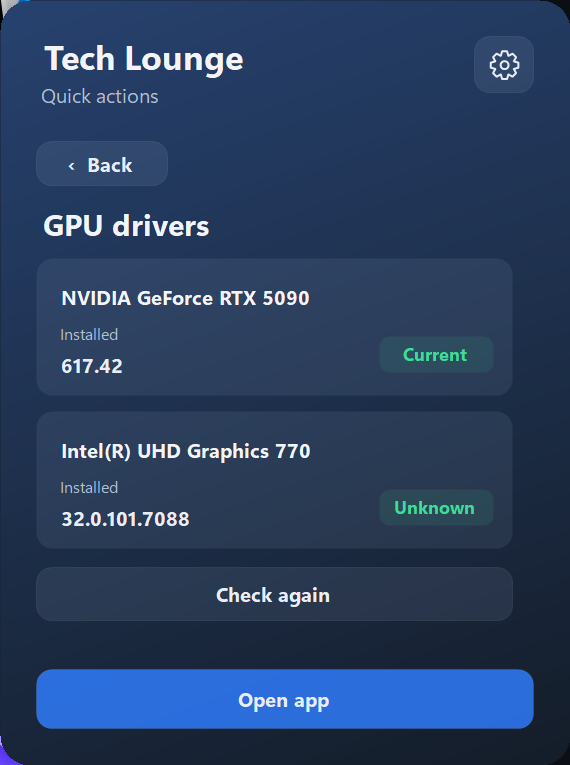
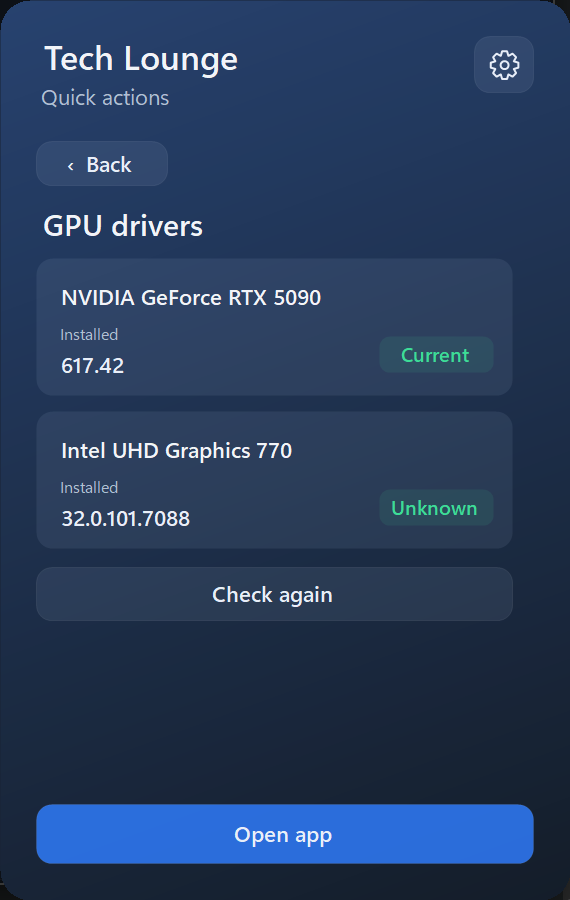
Tech Lounge Tweaks update 2026-10-18
- Revamp tray connection results with four metric cards, drawn icons, large speed/latency values and coloured bufferbloat grades. Label unavailable/zero throughput honestly, retain retry/background navigation, enlarge shared tray typography and use explicit Segoe UI Variable Semibold faces. Preserve fixed footer geometry.

- Keep tray popup height and footer position fixed across all pages. Preserve spring content navigation and opening/closing motion while removing the native height-change path implicated in repeated blue footer drawings. Check geometry throughout complete rapid-navigation transitions.

- Fix the one-frame repeated footer strips visible during animated tray resizing. Disable Win32 saved-client pixel copying for popup resizing and moving footer/page controls; verify final native resize flags alongside pixel and rapid-navigation checks.

Installed edition and native tray companion.

- Keep tray header/footer native controls alive across menu changes. Replace cached child-window composition with complete buffered animation-frame repainting. Verify native footer and page pixels during rapid navigation, hidden-to-visible cleanup, late results and theme changes to catch duplicate/stale drawings.

- Give tray Disk Cleanup a single footer layout through scanning, results and page animation. Keep both buttons equal and separated from the list, clear the moving footer backdrop, disable empty/pending cleanup, and distinguish Clean selected from Open app.
[…]

diff --git a/TechLoungeTweaks/tools/PopupMotionChecks.cs b/TechLoungeTweaks/tools/PopupMotionChecks.cs
@@ -103,23 +103,26 @@ static class PopupMotionChecks {
                 typeof(Popup).GetField("page",System.Reflection.BindingFlags.NonPublic|System.Reflection.BindingFlags.Instance).SetValue(popup,"clean");popup.Render();Pump(30);
                 Button review=null;Label result=null;foreach(Control c in viewport.Controls){if(c is Button&&c.Text=="Review cleanup")review=(Button)c;if(c is Label&&c.Text.StartsWith("Freed 1.6"))result=(Label)c;}
                 Require(result!=null&&result.Height<=popup.Pixels(65),"Short result reserved an oversized empty text area");
-                Require(review!=null&&review.Bottom<=viewport.Height,"Review cleanup still required scrolling");
+                Require(review!=null&&review.Bottom<=viewport.Height,"Review cleanup still required scrolling");Capture(popup,"tray-result.png");
                 var current=new Dictionary<string,object>{{"name","NVIDIA GeForce RTX 5090"},{"installed","617.42"},{"latest","617.42"},{"status","current"}};
                 var unknown=new Dictionary<string,object>{{"name","Intel UHD Graphics 770"},{"installed","32.0.101.7088"},{"latest",null},{"status","unknown"}};
                 tray.Jobs["drivers"]=new Job{Result=new Dictionary<string,object>{{"gpus",new object[]{current,unknown}}}};
                 typeof(Popup).GetField("page",System.Reflection.BindingFlags.NonPublic|System.Reflection.BindingFlags.Instance).SetValue(popup,"drivers");popup.Render();
                 int cards=0;bool unknownLabel=false;foreach(Control c in viewport.Controls)if(c is TrayGpuCard){var card=(TrayGpuCard)c;cards++;Require(card.Green,"Current or unknown GPU status lost its requested green treatment");unknownLabel|=card.StatusText=="Unknown";}
-                Require(cards==2&&unknownLabel,"Driver cards lost a GPU or misrepresented unknown status");
+                Require(cards==2&&unknownLabel,"Driver cards lost a GPU or misrepresented unknown status");Capture(popup,"tray-drivers.png");
                 Require(FindButton(popup,"Check again").Bottom<=viewport.Height,"Two GPU cards pushed Check again out of view");
-                Require(Popup.FontFor(10,true).Bold,"Tray emphasis still used a regular-weight font");
+                Require(Popup.FontFor(10,true).Bold||Popup.FontFor(10,true).Name.Contains("Semibold"),"Tray emphasis lost its semibold weight");
                 tray.Window=popup;tray.SetUpdateAvailable(true);Require(FindButton(popup,"● Update available")==null,"Update indicator appeared outside Quick actions");
                 typeof(Popup).GetField("page",System.Reflection.BindingFlags.NonPublic|System.Reflection.BindingFlags.Instance).SetValue(popup,"home");popup.Render();
-                Require(FindButton(popup,"● Update available")!=null,"Available update lacked its compact indicator");
+                Require(FindButton(popup,"● Update available")!=null,"Available update lacked its compact indicator");Capture(popup,"tray-update-indicator.png");
                 tray.SetUpdateAvailable(false);Require(FindButton(popup,"● Update available")==null&&FindButton(popup,"Updates")==null,"Tray retained a redundant update control");
-                Require(FindButton(popup,"Open app").Width==popup.ClientSize.Width-popup.Pixels(48),"Normal footer retained the empty update column");
+                Require(FindButton(popup,"Open app").Width==popup.ClientSize.Width-popup.Pixels(48),"Normal footer retained the empty update column");Capture(popup,"companion.png");
                 popup.Dispose();
             }
         }
+    }
+    static void Capture(Popup popup,string name){
+        string directory=Environment.GetEnvironmentVariable("TLT_TRAY_FIXTURES");if(string.IsNullOrEmpty(directory))return;popup.Activate();popup.Refresh();Pump(420);using(var bitmap=new Bitmap(popup.Width,popup.Height,System.Drawing.Imaging.PixelFormat.Format24bppRgb)){using(var graphics=Graphics.FromImage(bitmap))graphics.CopyFromScreen(popup.Location,Point.Empty,popup.Size);bitmap.Save(Path.Combine(directory,name));}
     }
     static Button FindButton(Control parent,string prefix){
         foreach(Control c in parent.Controls){if(c is Button&&c.Text.StartsWith(prefix))return (Button)c;var child=FindButton(c,prefix);if(child!=null)return child;}return null;
@@ -244,8 +247,21 @@ static class PopupMotionChecks {
             popup.Dispose();
         }
     }
+    static void ConnectionResults(){
+        Require(TrayMetricCard.Number(0,true)=="Unavailable"&&TrayMetricCard.Number(null,true)=="Unavailable"&&TrayMetricCard.Number(double.NaN,false)=="Unavailable","Invalid speed became a measured result");
+        Require(TrayMetricCard.Number(119.48,true)==119.5.ToString("0.0")&&TrayMetricCard.Number(7.43,false)==7.43.ToString("0.##"),"Metric precision changed");
+        using(var tray=new Tray(true))using(var popup=new Popup(tray)){
+            tray.Window=popup;tray.Jobs["connection"]=new Job{Result=new Dictionary<string,object>{{"download_mbps",0.0},{"upload_mbps",119.48},{"idle_ms",7.43},{"grade","A+"}}};
+            typeof(Popup).GetField("page",System.Reflection.BindingFlags.NonPublic|System.Reflection.BindingFlags.Instance).SetValue(popup,"connection");popup.Render();popup.Show();Pump(420);
+            var body=(TrayScrollPanel)typeof(Popup).GetField("body",System.Reflection.BindingFlags.NonPublic|System.Reflection.BindingFlags.Instance).GetValue(popup);int cards=0;
+            foreach(Control control in body.Controls){Require(control.Bottom<=body.Height,"Connection results require scrolling");var card=control as TrayMetricCard;if(card==null)continue;cards++;if(card.AccessibleName.StartsWith("Download"))Require(card.Caption=="Not measured","Zero download shown as success");if(card.AccessibleName.StartsWith("Bufferbloat"))Require(card.Value=="A+"&&card.StatusColor==Color.FromArgb(61,220,151),"A+ lost green status");}
+            Require(cards==4&&FindButton(popup,"Test again")!=null,"Connection metrics/retry missing");
+            string screenshot=Environment.GetEnvironmentVariable("TLT_CONNECTION_SCREENSHOT");if(!string.IsNullOrEmpty(screenshot))using(var bitmap=new Bitmap(popup.Width,popup.Height,System.Drawing.Imaging.PixelFormat.Format24bppRgb)){popup.Activate();popup.Refresh();Pump(40);using(var graphics=Graphics.FromImage(bitmap))graphics.CopyFromScreen(popup.Location,Point.Empty,popup.Size);bitmap.Save(screenshot);}
+            popup.Dispose();
+        }
+    }
     [STAThread] static int Main(string[] args){
-        try{PopupDpi.Enable();Application.EnableVisualStyles();Motion();PageMotion();AtomicRedraw();Dropdown();Appearance();CleanupFooter();TransitionPixels();ResponsiveProgress();File.WriteAllText(args[0],"PASS: native opening overshoot, opacity frames, exact settling, close/reopen continuity, reduced motion, dropdown dismissal-click guard, rounded menu sizing, cleanup focus scrolling, stable non-overlapping footer through loading and animated reversal, selection enablement, scroll reset, inline power selection, 200 progress updates without replacing navigation controls, background navigation, page spring frames, animated height, rapid reversal, reduced page motion, atomic redraw without intermediate paints, persistent chrome HWNDs, native footer/page pixel comparisons during rapid navigation, fixed popup and footer geometry throughout every navigation frame, theme updates and outside dismissal. No app actions ran.");return 0;}
+        try{PopupDpi.Enable();Application.EnableVisualStyles();Motion();PageMotion();AtomicRedraw();Dropdown();Appearance();CleanupFooter();TransitionPixels();ResponsiveProgress();ConnectionResults();File.WriteAllText(args[0],"PASS: native opening overshoot, opacity frames, exact settling, close/reopen continuity, reduced motion, dropdown dismissal-click guard, rounded menu sizing, cleanup focus scrolling, stable non-overlapping footer through loading and animated reversal, selection enablement, scroll reset, inline power selection, 200 progress updates without replacing navigation controls, background navigation, page spring frames, animated height, rapid reversal, reduced page motion, atomic redraw without intermediate paints, persistent chrome HWNDs, native footer/page pixel comparisons during rapid navigation, fixed popup and footer geometry throughout every navigation frame, theme updates and outside dismissal. No app actions ran.");return 0;}
         catch(Exception error){File.WriteAllText(args[0],error.ToString());return 1;}
     }
 }

diff --git a/TechLoungeTweaks/src/companion/TrayControls.cs b/TechLoungeTweaks/src/companion/TrayControls.cs
@@ -69,4 +69,42 @@ sealed class TrayGpuCard:Control {
     }
 }
 
+// Result metrics remain semantic controls; icons are drawn paths, never font glyphs.
+sealed class TrayMetricCard:Control {
+    readonly string title,icon;readonly Color accent;
+    internal readonly string Value,Caption;internal readonly Color StatusColor;
+    internal static string Number(object raw,bool speed){
+        double value;if(raw==null||!double.TryParse(Convert.ToString(raw,System.Globalization.CultureInfo.InvariantCulture),System.Globalization.NumberStyles.Float,System.Globalization.CultureInfo.InvariantCulture,out value)||double.IsNaN(value)||double.IsInfinity(value)||value<0||(speed&&value==0))return "Unavailable";
+        return value.ToString(value>=1000?"0":value>=10?"0.0":"0.##",System.Globalization.CultureInfo.CurrentCulture);
+    }
+    internal TrayMetricCard(string title,object raw,string unit,string icon,Color accent){
+        this.title=title;this.icon=icon;this.accent=accent;
+        var good=Color.FromArgb(61,220,151);var warn=Color.FromArgb(255,190,61);var muted=Color.FromArgb(176,191,212);
+        if(icon=="grade"){
+            string grade=Convert.ToString(raw);Value=Array.IndexOf(new[]{"A+","A","B","C","D","F"},grade)>=0?grade:"Unavailable";
+            StatusColor=grade=="A+"||grade=="A"?good:grade=="B"||grade=="C"||grade=="D"?warn:grade=="F"?Color.FromArgb(255,93,108):muted;
+            Caption=grade=="A+"?"Excellent":grade=="A"?"Great":grade=="B"?"Good":grade=="C"?"Fair":grade=="D"?"Poor":grade=="F"?"Heavy lag":"Not measured";
+        }else{Value=Number(raw,icon=="download"||icon=="upload");StatusColor=Value=="Unavailable"?muted:Color.FromArgb(242,244,248);Caption=Value=="Unavailable"?"Not measured":unit;}
+        AccessibleRole=AccessibleRole.StaticText;AccessibleName=title+": "+Value+" "+Caption;TabStop=false;
+        SetStyle(ControlStyles.UserPaint|ControlStyles.OptimizedDoubleBuffer|ControlStyles.AllPaintingInWmPaint,true);
+    }
+    protected override void OnPaint(PaintEventArgs e){
+        var popup=FindForm() as Popup;if(popup==null)return;int pad=popup.Pixels(14);
+        var offset=popup.PointToClient(PointToScreen(Point.Empty));var state=e.Graphics.Save();e.Graphics.TranslateTransform(-offset.X,-offset.Y);popup.PaintBackdrop(e.Graphics,popup.ClientRectangle);e.Graphics.Restore(state);
+        e.Graphics.SmoothingMode=SmoothingMode.AntiAlias;
+        using(var shape=Popup.Round(new Rectangle(0,0,Width-1,Height-1),popup.Pixels(14))){using(var fill=new SolidBrush(Color.FromArgb(28,180,200,235)))e.Graphics.FillPath(fill,shape);using(var rim=new Pen(Color.FromArgb(22,220,235,255)))e.Graphics.DrawPath(rim,shape);}
+        Color tint=icon=="grade"?StatusColor:accent;
+        var saved=e.Graphics.Save();e.Graphics.TranslateTransform(pad,popup.Pixels(13));e.Graphics.ScaleTransform(popup.Pixels(22)/22f,popup.Pixels(22)/22f);
+        using(var pen=new Pen(tint,1.8f)){pen.StartCap=pen.EndCap=LineCap.Round;pen.LineJoin=LineJoin.Round;
+            if(icon=="download"||icon=="upload"){bool down=icon=="download";e.Graphics.DrawLine(pen,11,down?3:17,11,down?17:3);e.Graphics.DrawLines(pen,down?new[]{new Point(6,12),new Point(11,17),new Point(16,12)}:new[]{new Point(6,8),new Point(11,3),new Point(16,8)});e.Graphics.DrawLine(pen,4,20,18,20);}
+            else if(icon=="latency")e.Graphics.DrawLines(pen,new[]{new Point(1,12),new Point(6,12),new Point(9,4),new Point(13,19),new Point(16,10),new Point(21,10)});
+            else {e.Graphics.DrawEllipse(pen,2,2,18,18);e.Graphics.DrawLines(pen,new[]{new Point(6,11),new Point(10,15),new Point(16,8)});}
+        }e.Graphics.Restore(saved);
+        var flags=TextFormatFlags.Left|TextFormatFlags.VerticalCenter|TextFormatFlags.SingleLine|TextFormatFlags.NoPrefix|TextFormatFlags.EndEllipsis|TextFormatFlags.PreserveGraphicsClipping|TextFormatFlags.PreserveGraphicsTranslateTransform;
+        TextRenderer.DrawText(e.Graphics,title,Popup.FontFor(9,true),new Rectangle(pad+popup.Pixels(29),popup.Pixels(12),Width-pad*2-popup.Pixels(29),popup.Pixels(24)),Color.FromArgb(208,220,238),flags);
+        TextRenderer.DrawText(e.Graphics,Value,Popup.FontFor(Value=="Unavailable"?12:26,true),new Rectangle(pad,popup.Pixels(42),Width-pad*2,popup.Pixels(40)),StatusColor,flags);
+        TextRenderer.DrawText(e.Graphics,Caption,Popup.FontFor(9,false),new Rectangle(pad,popup.Pixels(85),Width-pad*2,popup.Pixels(21)),Value=="Unavailable"?Color.FromArgb(255,190,61):Color.FromArgb(176,191,212),flags);
+    }
+}
+
 }

diff --git a/TechLoungeTweaks/src/companion/Program.cs b/TechLoungeTweaks/src/companion/Program.cs
@@ -277,7 +277,7 @@ sealed class GlassButton:Button {
 sealed class Popup:Form {
     [System.Runtime.InteropServices.DllImport("user32.dll")] static extern bool SetForegroundWindow(IntPtr window);
     static readonly Dictionary<string,Font> fonts=new Dictionary<string,Font>();
-    internal static Font FontFor(int size,bool bold){string key=size+":"+bold;Font font;if(!fonts.TryGetValue(key,out font)){font=new Font("Segoe UI Variable Text",size,bold?FontStyle.Bold:FontStyle.Regular);if(!font.Name.StartsWith("Segoe UI Variable",StringComparison.Ordinal)){font.Dispose();font=new Font("Segoe UI",size,bold?FontStyle.Bold:FontStyle.Regular);}fonts[key]=font;}return font;}
+    internal static Font FontFor(int size,bool bold){string key=size+":"+bold;Font font;if(!fonts.TryGetValue(key,out font)){int points=size==9?10:size==10?11:size;string family=bold?"Segoe UI Variable Text Semibold":"Segoe UI Variable Text";font=new Font(family,points,FontStyle.Regular);if(!font.Name.StartsWith("Segoe UI Variable",StringComparison.Ordinal)){font.Dispose();font=new Font("Segoe UI",points,bold?FontStyle.Bold:FontStyle.Regular);}fonts[key]=font;}return font;}
     readonly Tray tray; readonly TrayScrollPanel body=new TrayScrollPanel();string page="home";
     readonly PopupMotion motion;
     readonly GlassButton secondaryFooter,openFooter,settingsButton;bool splitFooter;
@@ -437,6 +437,9 @@ sealed class Popup:Form {
         var check=new TrayCheckBox{Tint=tray.Accent,Text="Open on startup",Checked=Program.Setting("Startup","1")=="1",AutoSize=false,BackColor=Color.Transparent,ForeColor=ForeColor};check.SetBounds(0,Pixels(170),Pixels(BodyWidth-14),Pixels(44));check.CheckedChanged+=(s,e)=>{try{if(!tray.Preview)Program.Startup(check.Checked);}catch(Exception ex){MessageBox.Show(ex.Message,"Startup setting");}};body.Controls.Add(check);
         Label("Updates install automatically when the app and quick actions are idle.",0,226,BodyWidth,70,10,false,body);
     }
+    void ConnectionCard(Dictionary<string,object> data,string key,string title,string unit,string icon,int x,int y,int width){
+        object raw;data.TryGetValue(key,out raw);var card=new TrayMetricCard(title,raw,unit,icon,tray.Accent);card.SetBounds(Pixels(x),Pixels(y),Pixels(width),Pixels(116));body.Controls.Add(card);
+    }
     void Detail(){Back();string title=new Dictionary<string,string>{{"scan","Disk cleanup"},{"clean","Disk cleanup"},{"connection","Your connection"},{"restore","Restore point"},{"drivers","GPU drivers"},{"power","Power plan"}}[page];Label(title,0,42,BodyWidth-14,28,15,true,body);
         Job job;if(!tray.Jobs.TryGetValue(page,out job)){Label("Ready.",0,82,BodyWidth-14,36,10,false,body);return;}
         if(page=="scan"&&job.Result!=null&&job.Result.ContainsKey("items")){
@@ -449,6 +452,15 @@ sealed class Popup:Form {
             foreach(var raw in (System.Collections.IEnumerable)job.Result["gpus"]){var gpu=(Dictionary<string,object>)raw;var card=new TrayGpuCard(gpu);int h=Convert.ToString(gpu["status"])=="update"?110:92;card.SetBounds(0,Pixels(y),Pixels(BodyWidth-14),Pixels(h));body.Controls.Add(card);y+=h+10;}
             if(y==78)Label("No supported GPU detected.",0,y,BodyWidth-14,36,10,false,body);
             Button("Check again",0,y==78?124:y+2,BodyWidth-14,36,()=>tray.Run("drivers",null,false),body);return;
+        }
+        if(page=="connection"&&!job.Running&&job.Result!=null&&!job.Result.ContainsKey("error")&&!job.Result.ContainsKey("__error__")){
+            var data=job.Result;int half=(BodyWidth-12)/2;
+            ConnectionCard(data,"download_mbps","Download","Mbps","download",0,78,half);
+            ConnectionCard(data,"upload_mbps","Upload","Mbps","upload",half+12,78,half);
+            ConnectionCard(data,"idle_ms","Latency","ms","latency",0,206,half);
+            ConnectionCard(data,"grade","Bufferbloat","","grade",half+12,206,half);
+            Label("Bufferbloat measures lag under load. A+ is best.",0,336,BodyWidth,32,9,false,body).ForeColor=Color.FromArgb(176,191,212);
+            Button("Test again",0,378,BodyWidth,40,()=>tray.Run("connection",null,false),body);return;
         }
         var message=Label(job.Message??"Working…",0,82,BodyWidth-14,28,10,false,body);detailMessage=message;FitMessage(message);
         if(!job.Running && page!="power")Button(page=="clean"?"Review cleanup":"Run again",0,(int)Math.Ceiling(message.Bottom/uiScale)+12,BodyWidth-14,44,()=>{if(page=="clean")page="scan";tray.Run(page,null,page=="restore");Render();},body);

diff --git a/RELEASE-NOTES.md b/RELEASE-NOTES.md
@@ -1,3 +1,5 @@
+- Revamp tray connection results with four metric cards, drawn icons, large speed/latency values and coloured bufferbloat grades. Label unavailable/zero throughput honestly, retain retry/background navigation, enlarge shared tray typography and use explicit Segoe UI Variable Semibold faces. Preserve fixed footer geometry.
+
 - Keep tray popup height and footer position fixed across all pages. Preserve spring content navigation and opening/closing motion while removing the native height-change path implicated in repeated blue footer drawings. Check geometry throughout complete rapid-navigation transitions.
 
 - Fix the one-frame repeated footer strips visible during animated tray resizing. Disable Win32 saved-client pixel copying for popup resizing and moving footer/page controls; verify final native resize flags alongside pixel and rapid-navigation checks.

diff --git a/README.md b/README.md
@@ -994,3 +994,7 @@ verbose installer cannot stall on a full, unread output pipe. See the
 The release workflow compiles the tray with Windows .NET Framework and requires
 NSIS 3.x. Set `MAKENSIS` to its compiler, put it on PATH, or keep it under
 `%LOCALAPPDATA%\TechLoungeBuildTools\nsis`. The personal build cache is not published.
+
+Connection results use four rounded metric cards with drawn download/upload/pulse/status icons, large values, units and a green A+ grade. Missing or zero throughput is labelled Unavailable / Not measured, never a successful 0 Mbps result. Shared tray typography uses explicit Semibold faces and larger reading/action text.
+
+![Tray connection results with synthetic preview data](docs/tray-connection.png)

diff --git a/TechLoungeTweaks/README.md b/TechLoungeTweaks/README.md
@@ -994,3 +994,7 @@ verbose installer cannot stall on a full, unread output pipe. See the
 The release workflow compiles the tray with Windows .NET Framework and requires
 NSIS 3.x. Set `MAKENSIS` to its compiler, put it on PATH, or keep it under
 `%LOCALAPPDATA%\TechLoungeBuildTools\nsis`. The personal build cache is not published.
+
+Connection results use four rounded metric cards with drawn download/upload/pulse/status icons, large values, units and a green A+ grade. Missing or zero throughput is labelled Unavailable / Not measured, never a successful 0 Mbps result. Shared tray typography uses explicit Semibold faces and larger reading/action text.
+
+![Tray connection results with synthetic preview data](docs/tray-connection.png)
